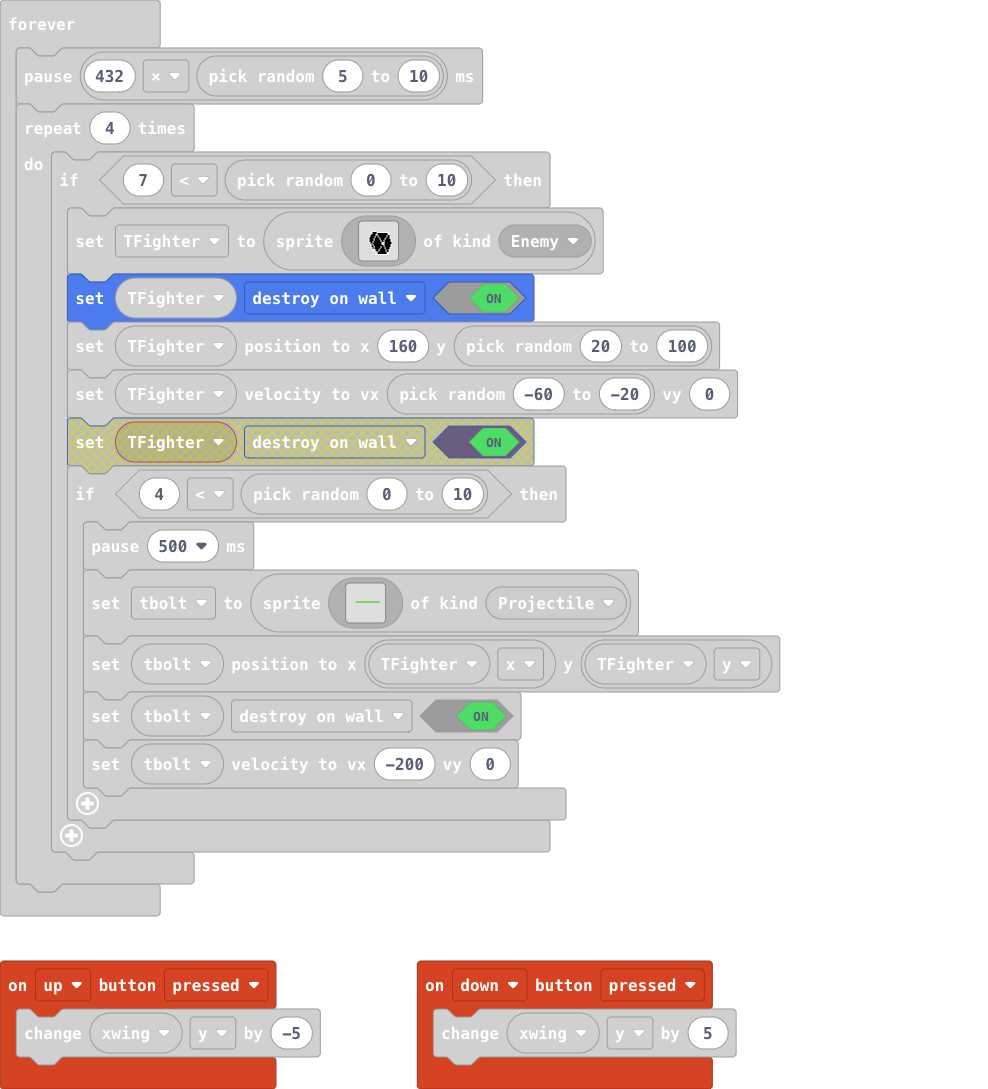
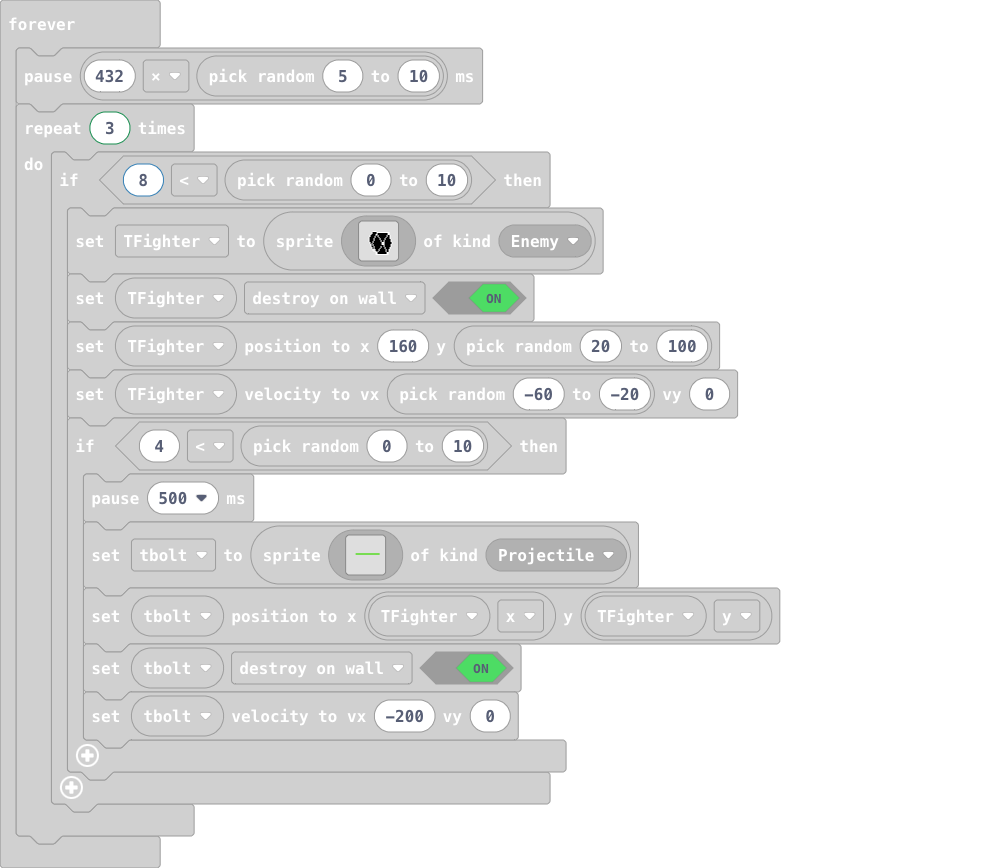
Update main.blocks, main.ts

diff --git a/main.ts b/main.ts
@@ -81,8 +81,8 @@ forever(function () {
 })
 forever(function () {
     pause(432 * randint(5, 10))
-    for (let index = 0; index < 4; index++) {
-        if (7 < randint(0, 10)) {
+    for (let index = 0; index < 3; index++) {
+        if (8 < randint(0, 10)) {
             TFighter = sprites.create(assets.image`Tie`, SpriteKind.Enemy)
             TFighter.setFlag(SpriteFlag.DestroyOnWall, true)
             TFighter.setPosition(160, randint(20, 100))
